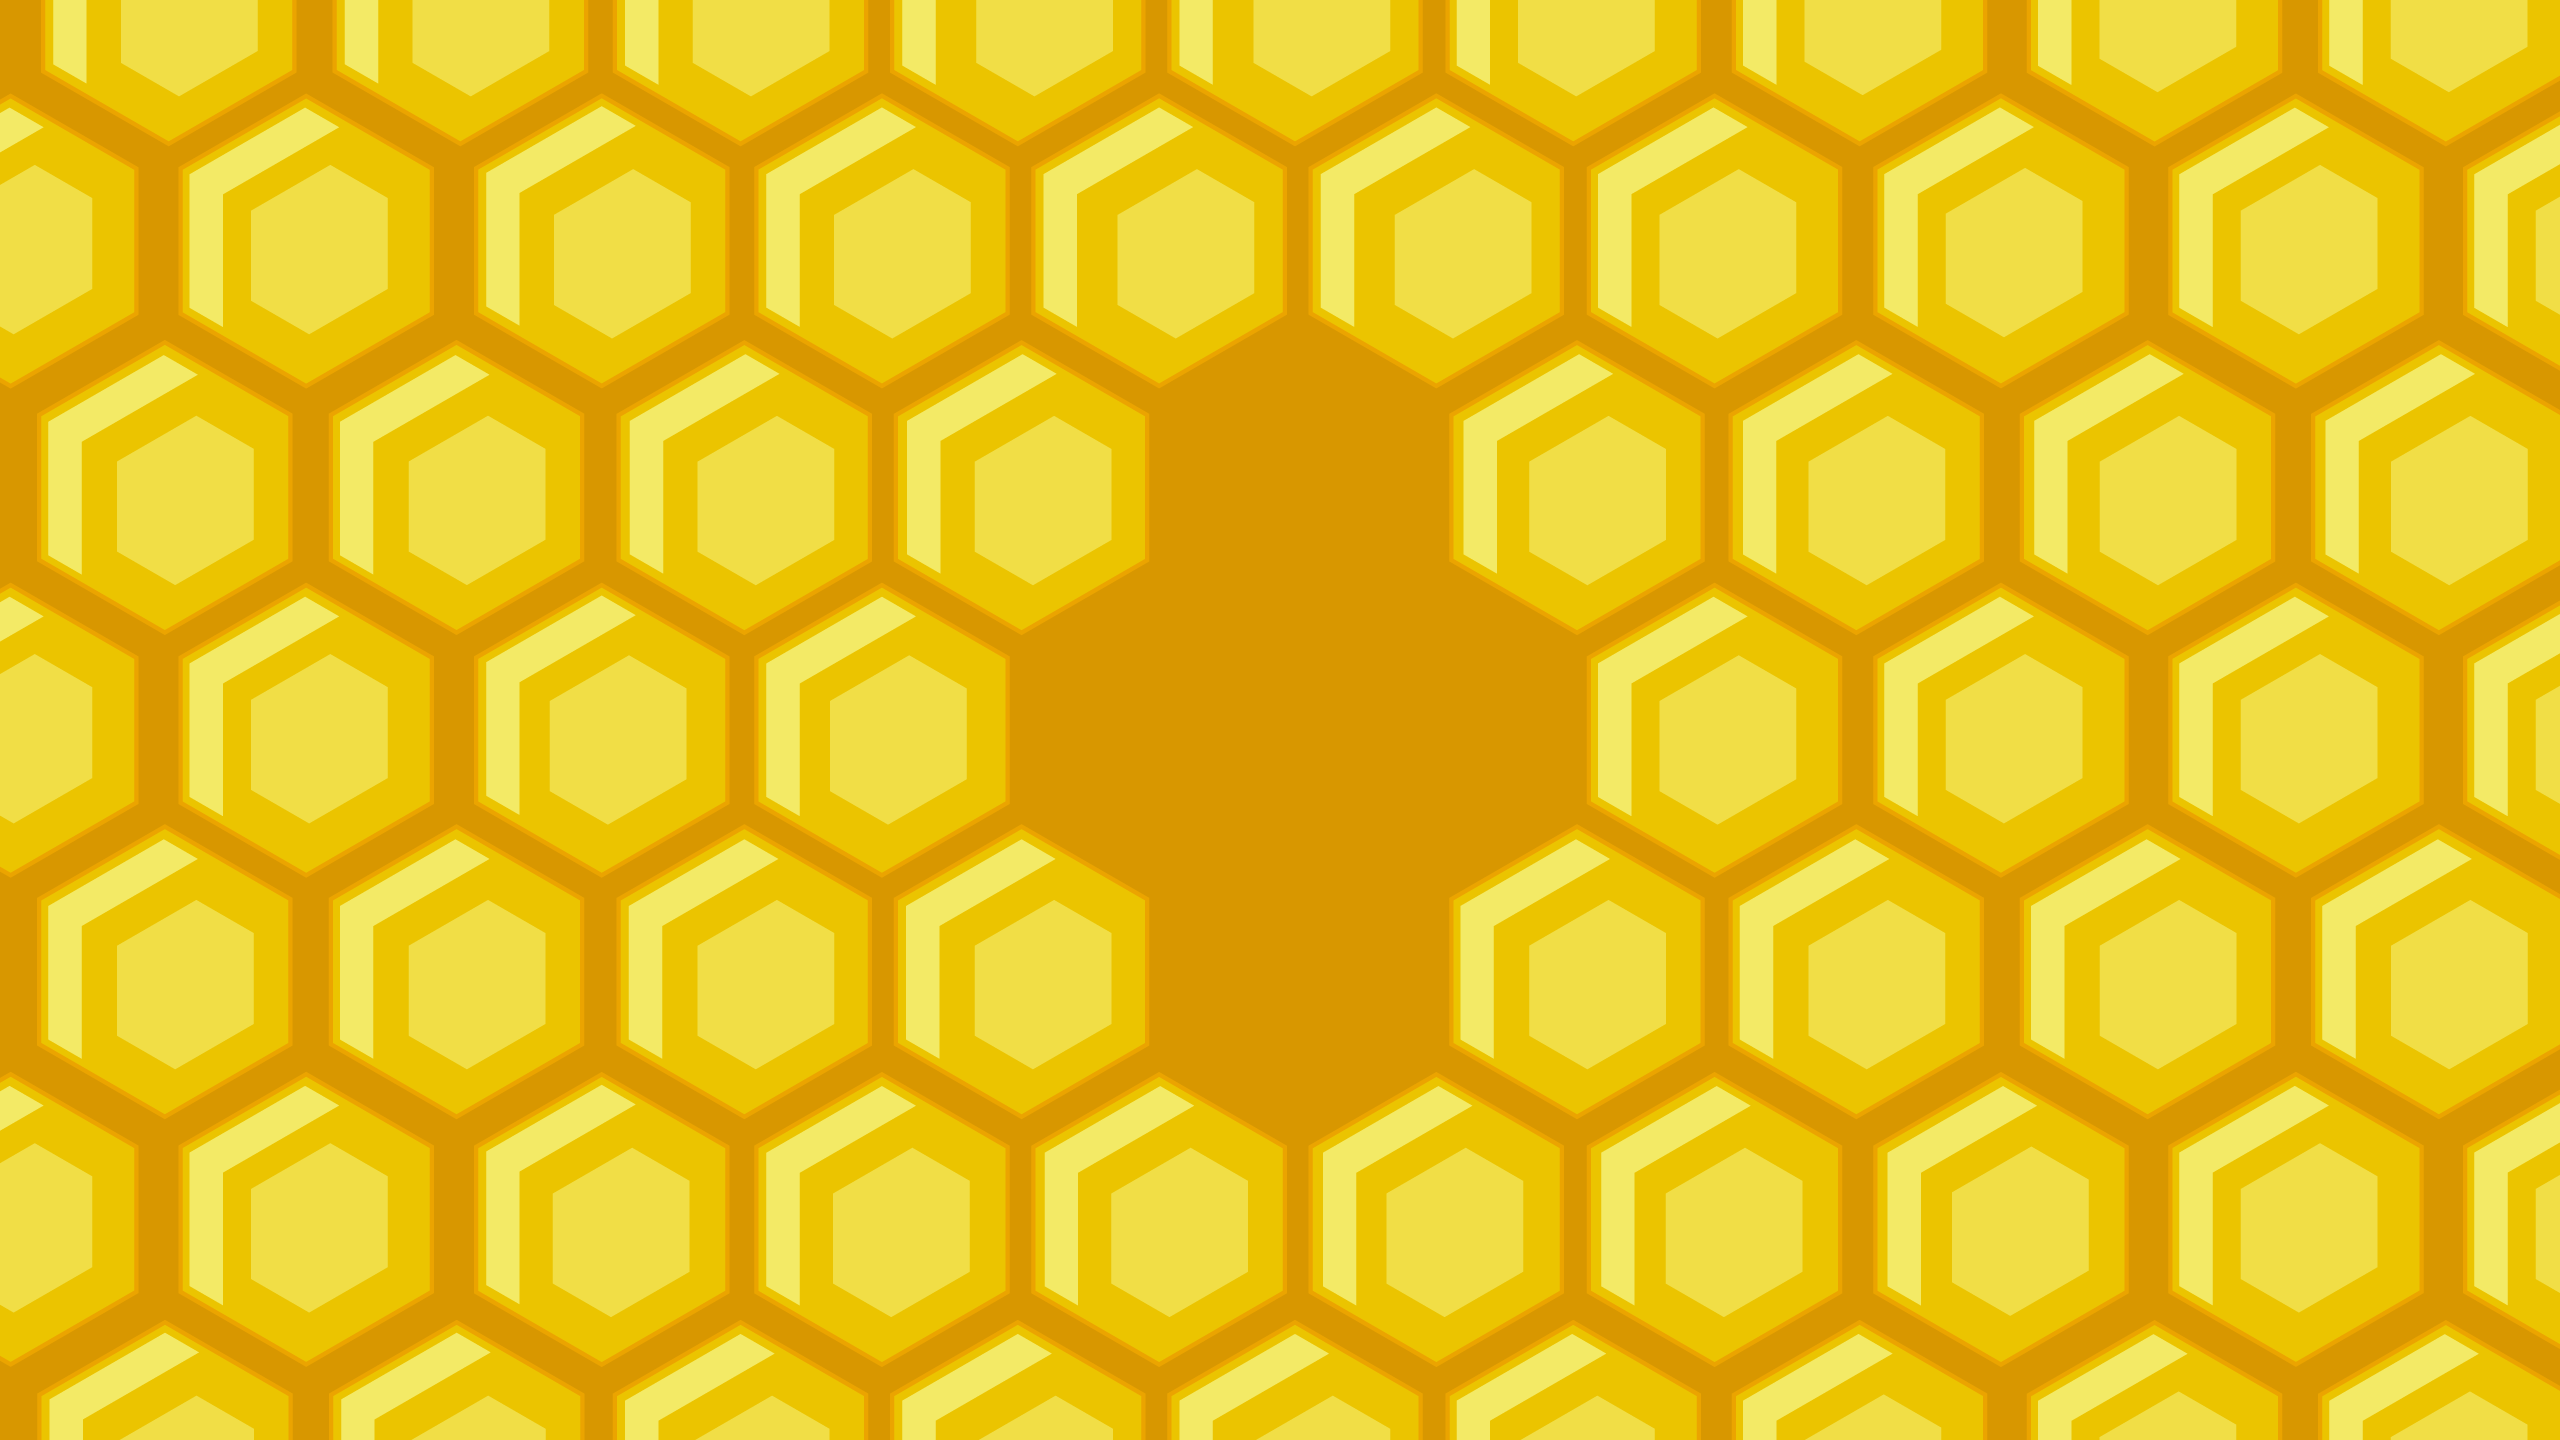
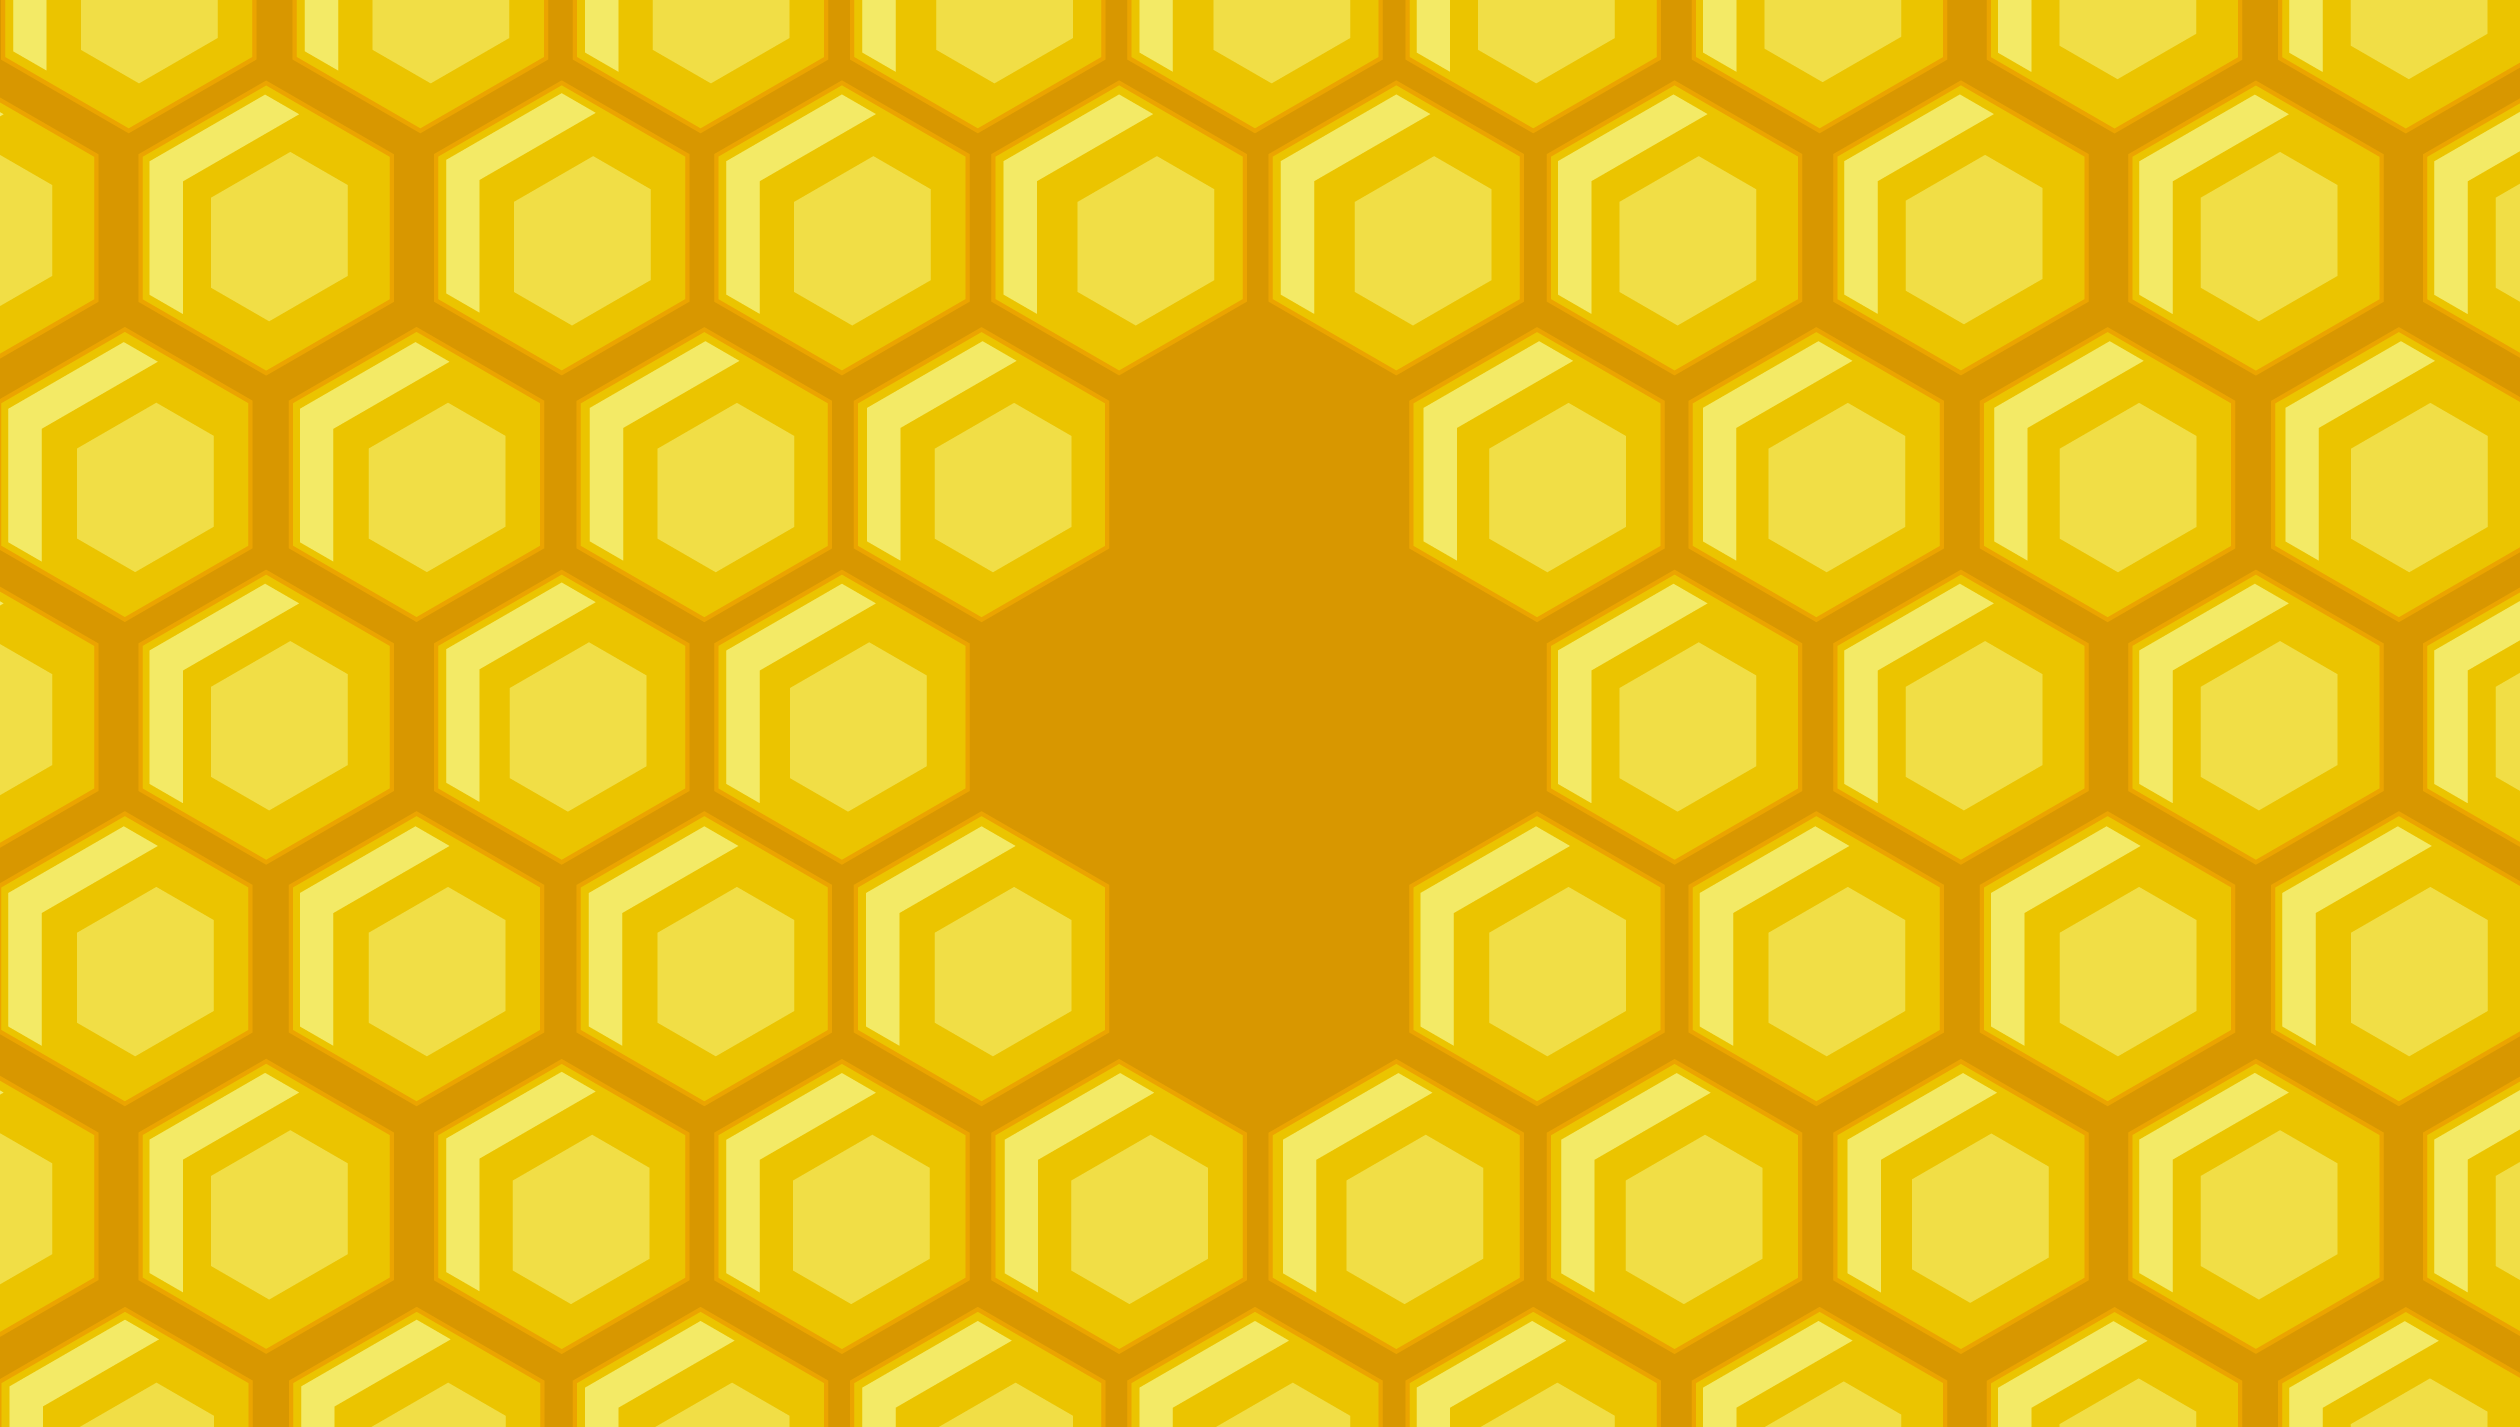
fixed menu?

diff --git a/Classes/MainMenu/MainMenuScene.cpp b/Classes/MainMenu/MainMenuScene.cpp
@@ -3,6 +3,7 @@
 #include "Game/GameScene.h"
 #include "About/AboutScene.h"
 #include "Options/OptionsScene.h"
+#include "ui/CocosGUI.h"
 
 Scene *MainMenu::scene() { return MainMenu::create(); }
 
@@ -12,60 +13,86 @@ bool MainMenu::init() {
 	// standard size related functions
 	cocos2d::Rect visibleRect = Director::getInstance()->getOpenGLView()->getVisibleRect();
 	Size visibleSize = Director::getInstance()->getVisibleSize();
-	Vec2 origin = Director::getInstance()->getVisibleOrigin();
-
-	onePofScreenH = visibleSize.height / 100;
-    onePofScreenW = visibleSize.width / 100;
+	Vec2 origin = Vec2(visibleSize.width/2, visibleSize.height/2);
 
 	// adding a background, setting the middle as the anchor point and putting as far back as possible
 	auto *background = cocos2d::Sprite::create("menu/main-menu-background.png");
-	background->setPosition(visibleSize.width / 2, visibleSize.height / 2);
 	background->setAnchorPoint(Vec2(0.5, 0.5));
-	background->setScale(0.9f);
+	background->setPosition(origin);
 	this->addChild(background, -1000);
+
+	Vec2 backgroundOrigin = Vec2(background->getBoundingBox().size.width/2,
+                                background->getBoundingBox().size.height/2);
 
 	// Create a title and center it at the top of the screen
 	auto title = Label::createWithTTF("So Bee It!", "fonts/ReemKufi-Regular.ttf", 48);
-	title->setPosition(Vec2(origin.x + visibleSize.width / 2,
-    	                        origin.y + visibleSize.height - title->getContentSize().height));
+	title->setPosition(Vec2(origin.x, visibleSize.height - 80));
 	this->addChild(title, 3);
 
 	// Adding the sprites for the main menu with location and size adjustment
 	// all scaling and position through trial-and-error
-	auto playButton = MenuItemImage::create("menu/start.png", "menu/start.png",
-	                                        CC_CALLBACK_1(MainMenu::onPlayClick, this));
-	playButton->setPosition(Vec2(visibleRect.origin.x,
-									visibleRect.origin.y + onePofScreenH * 19));
-	playButton->setScale(1.04f);
+    auto playButton = ui::Button::create("menu/start.png");
 
-	auto optionsButton = MenuItemImage::create("menu/options.png", "menu/options.png",
-	                                           CC_CALLBACK_1(MainMenu::onOptionsClick, this));
-	optionsButton->setPosition(Vec2(visibleRect.origin.x - onePofScreenW * 5.5,
-									visibleRect.origin.y ));
-	optionsButton->setScale(1.04f);
+    playButton->addTouchEventListener([&](Ref* sender, ui::Widget::TouchEventType type) {
+        switch (type) {
+            case ui::Widget::TouchEventType::BEGAN:
+                break;
+            case ui::Widget::TouchEventType::ENDED:
+                this->onPlayClick(background);
+                break;
+        }
+    });
+	playButton->setPosition(Vec2(backgroundOrigin.x, backgroundOrigin.y));
+	playButton->setAnchorPoint(Vec2(0.5, -0.26));
+	playButton->setScale(1.3);
 
-	auto aboutButton = MenuItemImage::create("menu/credits.png", "menu/credits.png",
-	                                         CC_CALLBACK_1(MainMenu::onAboutClick, this));
-	aboutButton->setPosition(Vec2(visibleRect.origin.x + onePofScreenW * 7.3,
-									visibleRect.origin.y));
-	aboutButton->setScale(1.04f);
+	auto optionsButton = ui::Button::create("menu/options.png");
+    optionsButton->addTouchEventListener([&](Ref* sender, ui::Widget::TouchEventType type) {
+        switch (type) {
+            case ui::Widget::TouchEventType::BEGAN:
+                break;
+            case ui::Widget::TouchEventType::ENDED:
+                this->onOptionsClick(background);
+                break;
+        }
+    });
+	optionsButton->setPosition(Vec2(backgroundOrigin.x, backgroundOrigin.y));
+	optionsButton->setAnchorPoint(Vec2(1.025, 0.5));
+	optionsButton->setScale(1.3);
 
-	auto exitButton = MenuItemImage::create("menu/exit.png", "menu/exit.png",
-    	                                        CC_CALLBACK_1(MainMenu::onExitClick, this));
-    exitButton->setPosition(Vec2(visibleRect.origin.x,
-                                    visibleRect.origin.y - onePofScreenH * 19));
-    exitButton->setScale(1.04f);
+    auto aboutButton = ui::Button::create("menu/options.png");
+    aboutButton->addTouchEventListener([&](Ref* sender, ui::Widget::TouchEventType type) {
+        switch (type) {
+            case ui::Widget::TouchEventType::BEGAN:
+                break;
+            case ui::Widget::TouchEventType::ENDED:
+                this->onAboutClick(background);
+                break;
+        }
+    });
+	aboutButton->setPosition(Vec2(backgroundOrigin.x, backgroundOrigin.y));
+	aboutButton->setAnchorPoint(Vec2(-0.025, 0.5));
+	aboutButton->setScale(1.3);
 
-	// vector of menu items and then adding all the menu items and creating them
-	Vector<MenuItem *> MenuItems;
+    auto exitButton = ui::Button::create("menu/options.png");
+    exitButton->addTouchEventListener([&](Ref* sender, ui::Widget::TouchEventType type) {
+        switch (type) {
+            case ui::Widget::TouchEventType::BEGAN:
+                break;
+            case ui::Widget::TouchEventType::ENDED:
+                this->onExitClick(background);
+                break;
+        }
+    });
+	exitButton->setAnchorPoint(Vec2(0.5, 1.26));
+    exitButton->setPosition(Vec2(backgroundOrigin.x, backgroundOrigin.y));
+    exitButton->setScale(1.3);
 
-	MenuItems.pushBack(playButton);
-	MenuItems.pushBack(optionsButton);
-	MenuItems.pushBack(aboutButton);
-	MenuItems.pushBack(exitButton);
+	background->addChild(playButton);
+	background->addChild(optionsButton);
+	background->addChild(aboutButton);
+	background->addChild(exitButton);
 
-	auto menu = Menu::createWithArray(MenuItems);
-	this->addChild(menu, 2);
 
 
 	return true;
